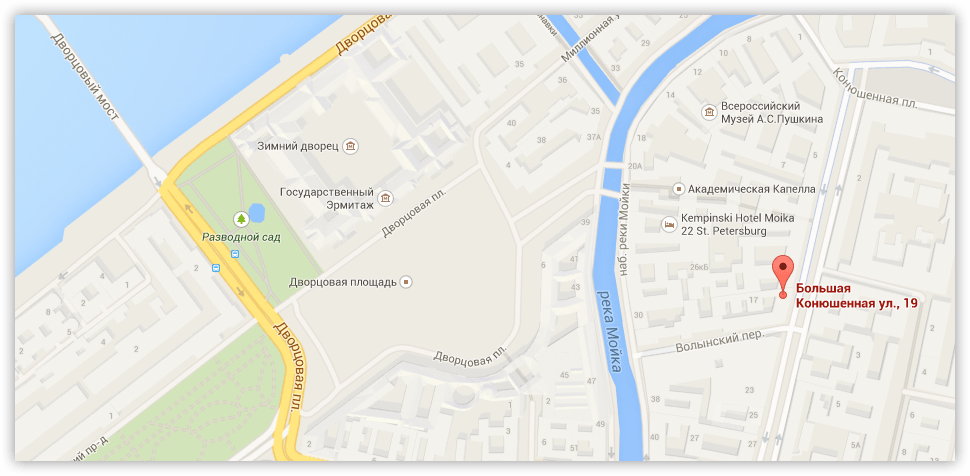
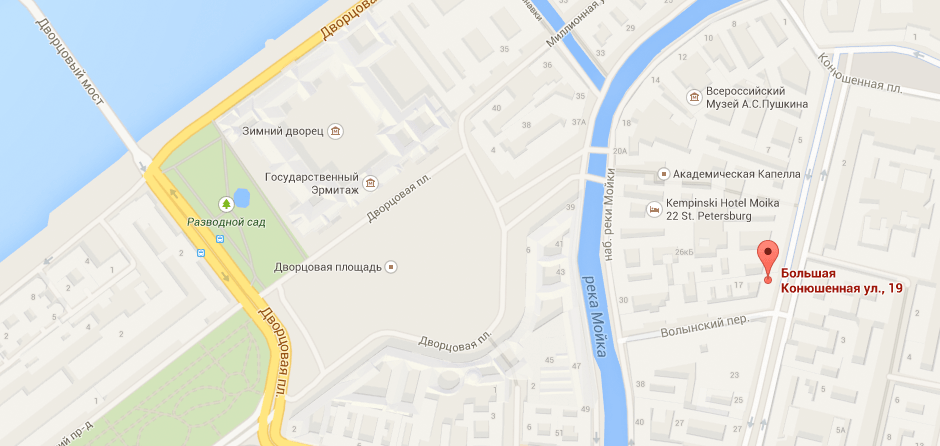
Правка карты

diff --git a/index.html b/index.html
@@ -325,7 +325,7 @@
       <h2 class="map-title visually-hidden">Наше местоположение</h2>
       <button type="button"  class="close" aria-label="Закрыть"></button>
 
-      <img src="img/index/map.png" alt="г. Санкт-Петербург, ул. Б. Конюшенная, д. 19/8" width="970" height="476">
+      <img src="img/index/map.png" alt="г. Санкт-Петербург, ул. Б. Конюшенная, д. 19/8" width="940" height="446">
     </div>
 
     <div class="pop-up added-item">
